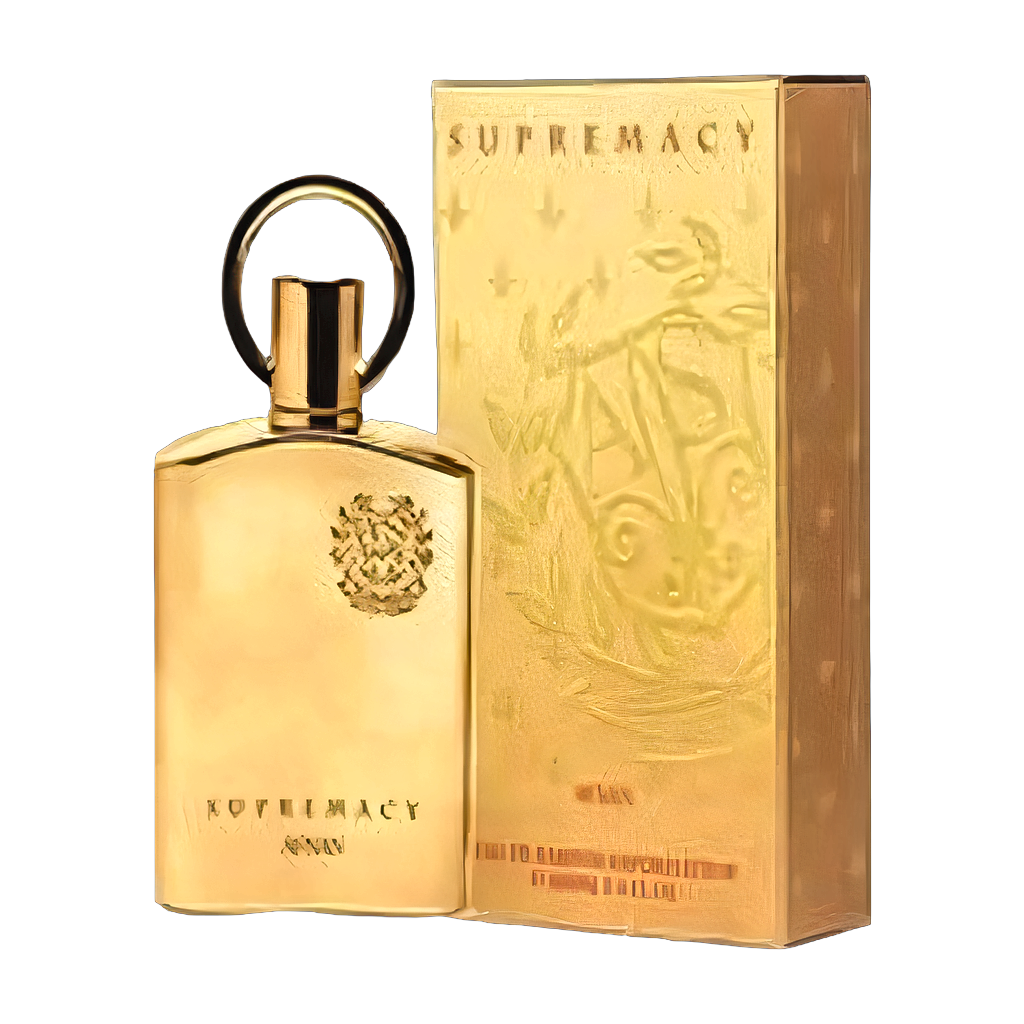
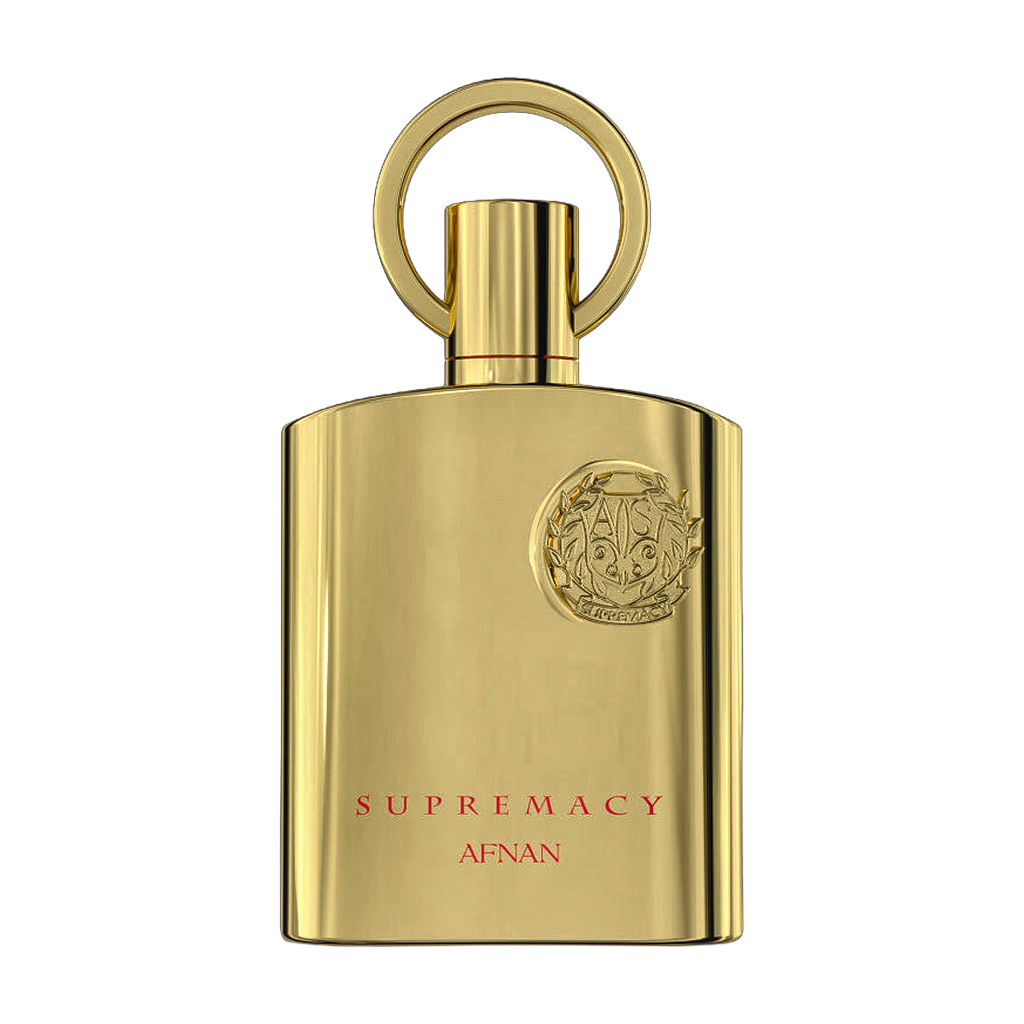
fix(images): replace low-res Supremacy Gold with official studio photo and add anti-hallucination deblocking

diff --git a/Al-Warda/scripts/generate_product_images.py b/Al-Warda/scripts/generate_product_images.py
@@ -1389,6 +1389,17 @@ def super_resolve_product_image_if_needed(image, min_dim=900):
     if max(w, h) >= min_dim:
         return image
 
+    # Pre-deblock: remove blocky JPEG compression boundaries before feeding into AI models.
+    # This prevents GAN super-resolution from amplifying compression blocks into barcode/ladder lines on small text.
+    try:
+        import cv2
+        import numpy as np
+        arr_pre = np.array(image.convert("RGB"))
+        deblocked = cv2.bilateralFilter(arr_pre, d=5, sigmaColor=30, sigmaSpace=30)
+        image = Image.fromarray(deblocked)
+    except Exception:
+        pass
+
     bin_path, models_dir = find_superres_binary()
     if bin_path:
         try:
@@ -1400,7 +1411,12 @@ def super_resolve_product_image_if_needed(image, min_dim=900):
                 image.convert("RGB").save(in_path, format="PNG")
                 cmd = [bin_path, "-i", in_path, "-o", out_path, "-s", str(scale), "-c", "0", "-j", "1:1:1"]
                 if models_dir and os.path.isdir(models_dir):
-                    if os.path.isfile(os.path.join(models_dir, "ultrasharp-4x.bin")):
+                    # For realistic photography, remacri-4x and high-fidelity-4x prevent GAN hallucinatory artifacts on tiny fonts
+                    if os.path.isfile(os.path.join(models_dir, "remacri-4x.bin")):
+                        cmd.extend(["-m", models_dir, "-n", "remacri-4x"])
+                    elif os.path.isfile(os.path.join(models_dir, "high-fidelity-4x.bin")):
+                        cmd.extend(["-m", models_dir, "-n", "high-fidelity-4x"])
+                    elif os.path.isfile(os.path.join(models_dir, "ultrasharp-4x.bin")):
                         cmd.extend(["-m", models_dir, "-n", "ultrasharp-4x"])
                     elif os.path.isfile(os.path.join(models_dir, "realesrgan-x4plus.bin")):
                         cmd.extend(["-m", models_dir, "-n", "realesrgan-x4plus"])
